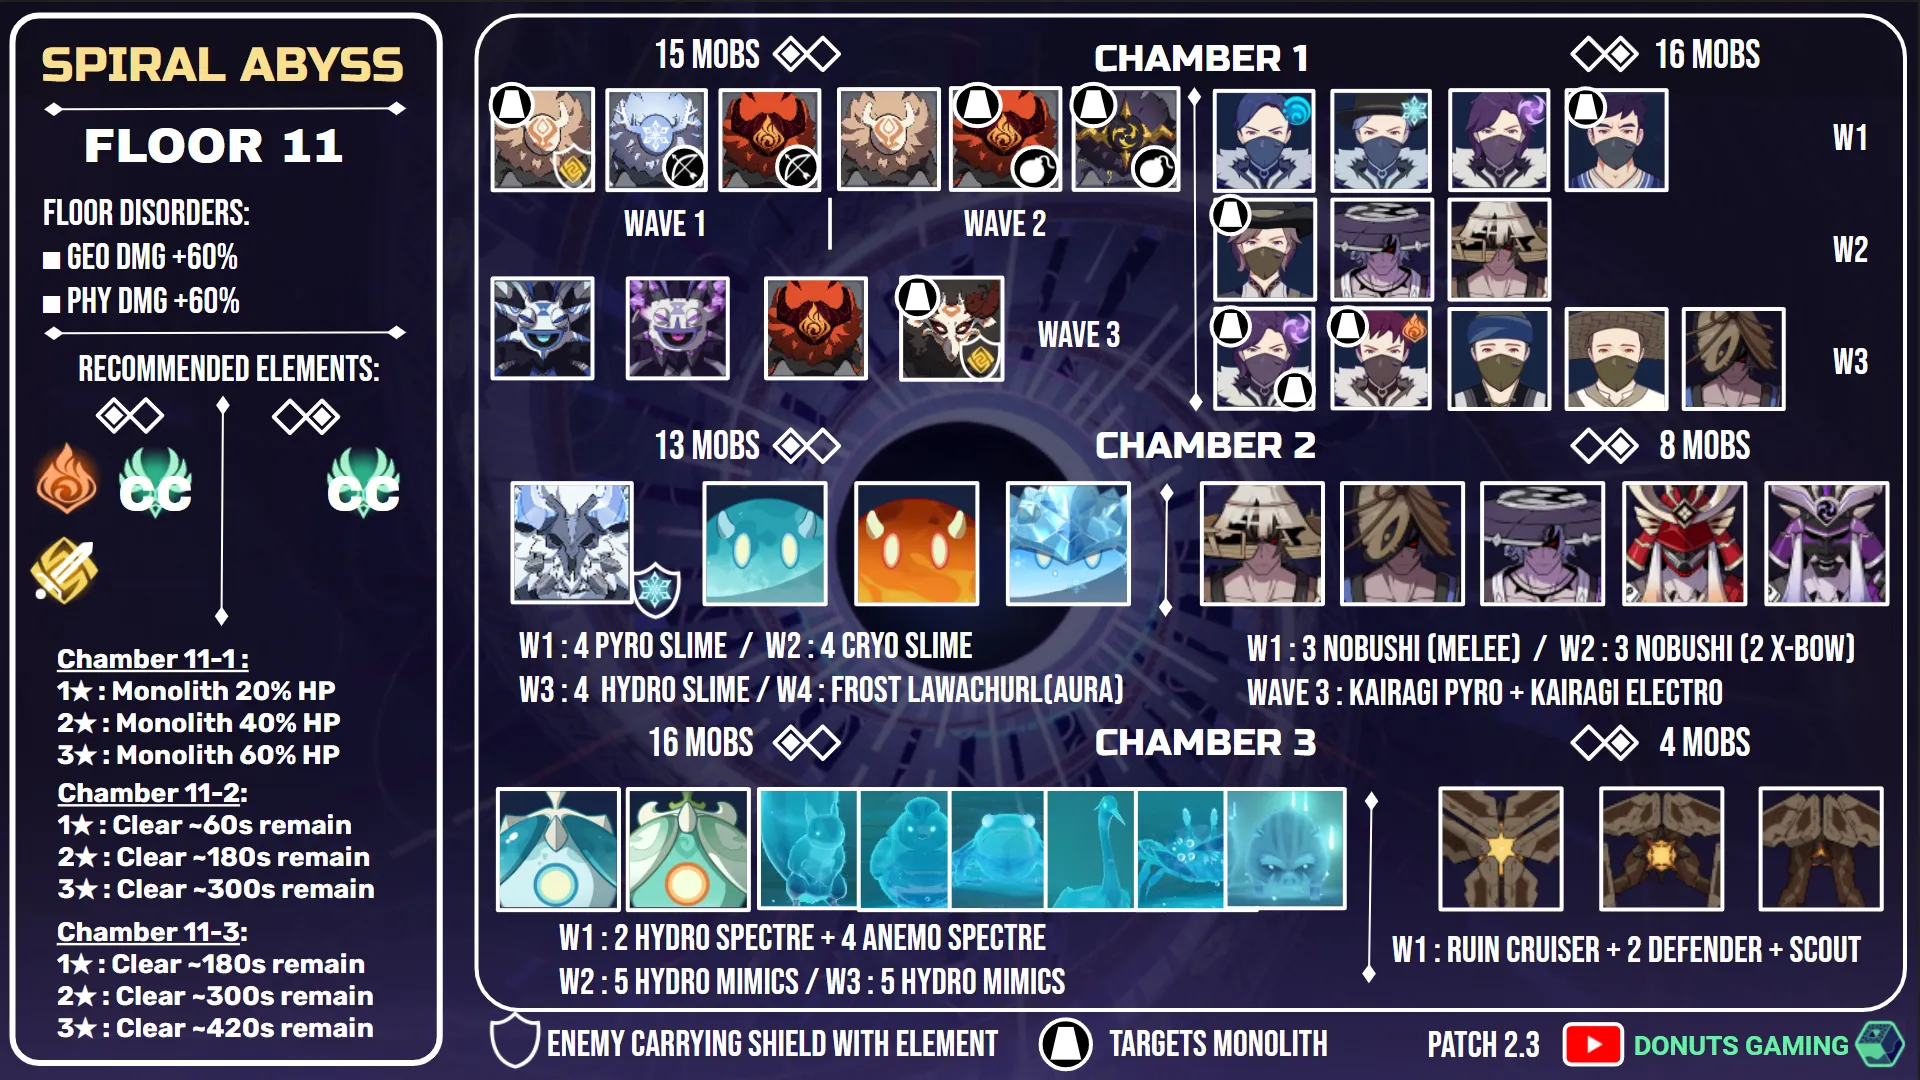
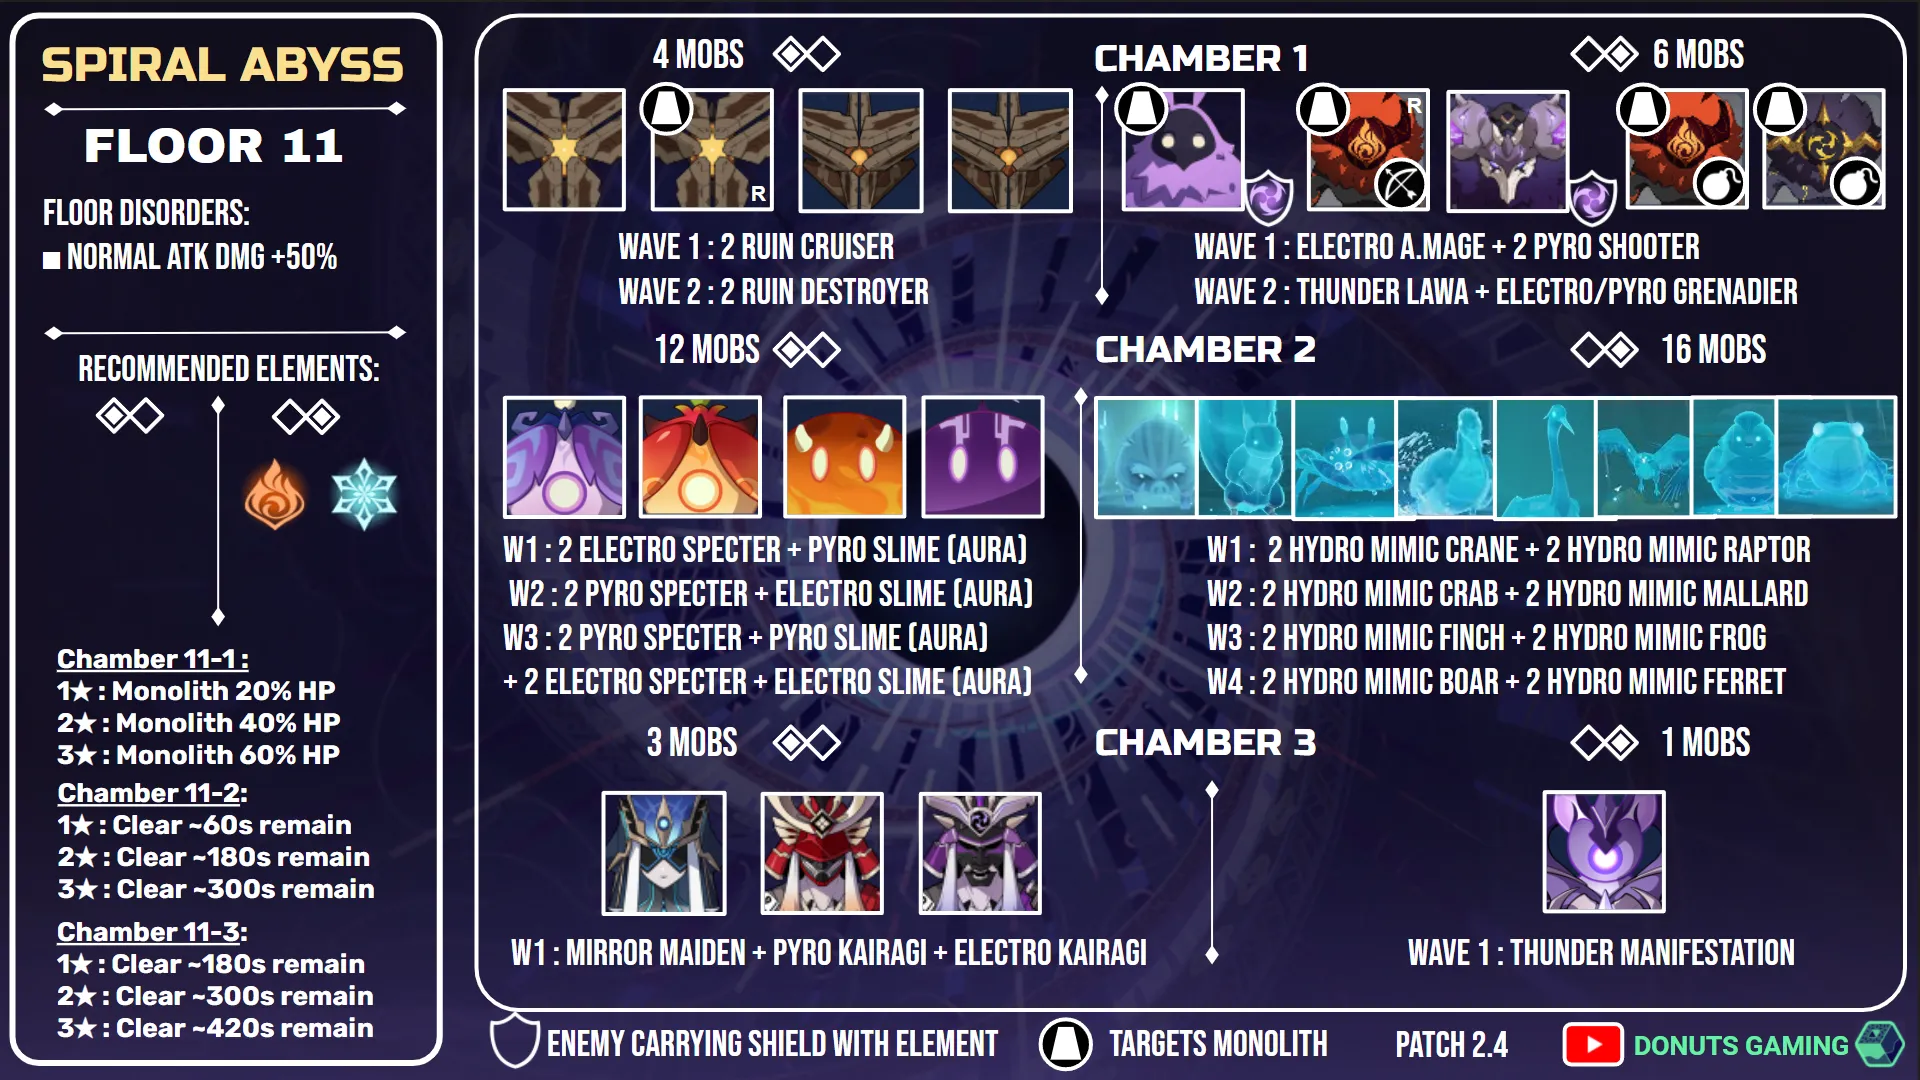
Update abysss infographics to 2.4

diff --git a/pages/abyss.js b/pages/abyss.js
@@ -9,11 +9,11 @@ export default function Abyss() {
         <title>Spiral Abyss - Genshin Database</title>
         <meta
           name="description"
-          content="Genshin Impact Spiral Abyss 2.3 infographics with details and recommendations. Contains infographics of all enemies and provides recommendations for elements and techniques for completing"
+          content="Genshin Impact Spiral Abyss 2.4 infographics with details and recommendations. Contains infographics of all enemies and provides recommendations for elements and techniques for completing"
         />
         <meta
           name="keywords"
-          content="Genshin Impact, Genshin, Spiral Abyss, Abyss, 2.3 Abyss, Database, Infographic"
+          content="Genshin Impact, Genshin, Spiral Abyss, Abyss, 2.4 Abyss, Database, Infographic"
         />
         <meta name="author" content="Damon Jensen" />
         <meta
@@ -29,7 +29,7 @@ export default function Abyss() {
         <div className="flex flex-wrap mt-4">
           <div className="w-full xl:w-1/2 p-2">
             <a
-              href="https://preview.redd.it/0fme1bqbime71.png?width=1920&format=png&auto=webp&s=d2678c6f66868137674571e8f505f2007b42f504"
+              href="https://i.imgur.com/Md49mdB.png"
               target="_blank"
               rel="noreferrer"
             >
@@ -44,7 +44,7 @@ export default function Abyss() {
           </div>
           <div className="w-full xl:w-1/2 p-2">
             <a
-              href="https://preview.redd.it/tic1kxacime71.png?width=1920&format=png&auto=webp&s=3579eb940e4c1e7d1a0e0b62ac548a68964d6f27"
+              href="https://i.imgur.com/o8bMjLy.png"
               target="_blank"
               rel="noreferrer"
             >
@@ -60,7 +60,7 @@ export default function Abyss() {
 
           <div className="w-full xl:w-1/2 p-2">
             <a
-              href="https://preview.redd.it/p6tsf29snt281.png?width=1920&format=png&auto=webp&s=40f2546e479b8cc20f945ebcd83810b635289b79"
+              href="https://i.imgur.com/1GERLF5.png"
               target="_blank"
               rel="noreferrer"
             >
@@ -75,7 +75,7 @@ export default function Abyss() {
           </div>
           <div className="w-full xl:w-1/2 p-2">
             <a
-              href="https://preview.redd.it/wo2iqz8snt281.png?width=1920&format=png&auto=webp&s=11034082668139fd777e991137b805ecb3317d44"
+              href="https://i.imgur.com/osVSf0N.png"
               target="_blank"
               rel="noreferrer"
             >
